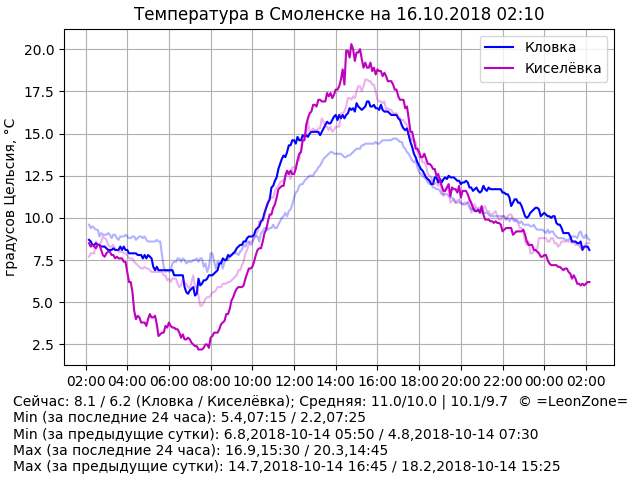
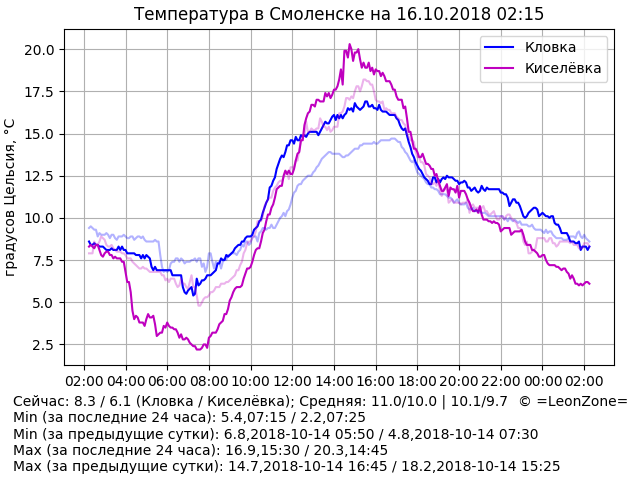
Update data

diff --git a/index.html b/index.html
@@ -14,7 +14,7 @@
 	<p align="center"><script>document.write("<img src=\"graph.png?rnd="+Math.random()+"\" alt=\"Температура в Смоленске\" align=\"middle\" width=\"640\" height=\"480\" />")</script>
 	<p hidden="true">
 <!-- textinfo -->
-Сейчас: 8.1 / 6.2 (Кловка / Киселёвка); Средняя: 11.0/10.0 | 10.1/9.7
+Сейчас: 8.3 / 6.1 (Кловка / Киселёвка); Средняя: 11.0/10.0 | 10.1/9.7
 Min (за последние 24 часа): 5.4,07:15 / 2.2,07:25
 Min (за предыдущие сутки): 6.8,2018-10-14 05:50 / 4.8,2018-10-14 07:30
 Max (за последние 24 часа): 16.9,15:30 / 20.3,14:45
